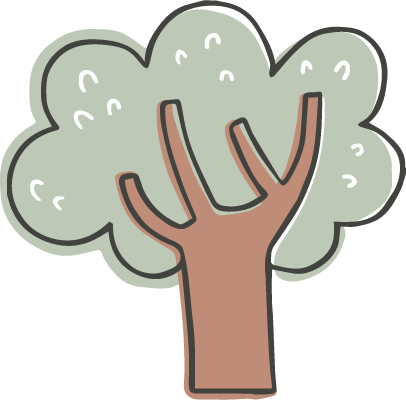
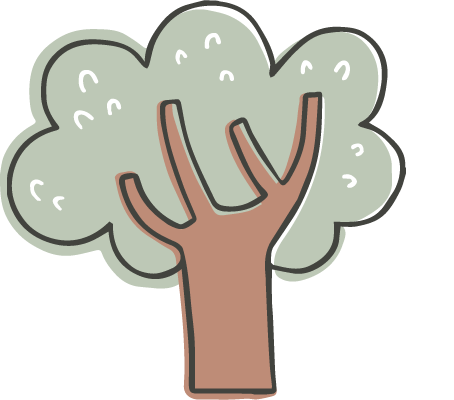
onPress style feedback for custom btn, and centered tree img better

diff --git a/reusableComponents/CustomButton.tsx b/reusableComponents/CustomButton.tsx
@@ -32,7 +32,16 @@ export default function CustomButton(props: Props) {
 
     //-----------------------------------------------
     return (
-        <Pressable style={[styles.btn, uniqueButtonStyling, disabled && {backgroundColor: '#d3d3d3'}]} onPress={() => handlePressEvent()} testID={testID}>
+        <Pressable
+                style={({ pressed }) => [
+                    styles.btn,
+                    uniqueButtonStyling,
+                    disabled && { backgroundColor: '#d3d3d3' },
+                    pressed && !disabled && styles.pressedStyle
+                ]} 
+                onPress={() => handlePressEvent()} 
+                testID={testID}
+        >
             {text &&
                 <Text style={[styles.defaultTextStyle, uniqueTextStyling]}>{text}</Text>
             }
@@ -63,4 +72,12 @@ const styles = StyleSheet.create({
         color: '#3E1911',
         fontWeight: 'bold',
     },
+    pressedStyle: { 
+        backgroundColor: '#9BD1D6', 
+        borderWidth: 3, 
+        borderRightWidth: 3, 
+        borderBottomWidth: 3, 
+        borderColor: '#0098A6', 
+        textDecorationLine: 'underline'
+    }
 });
